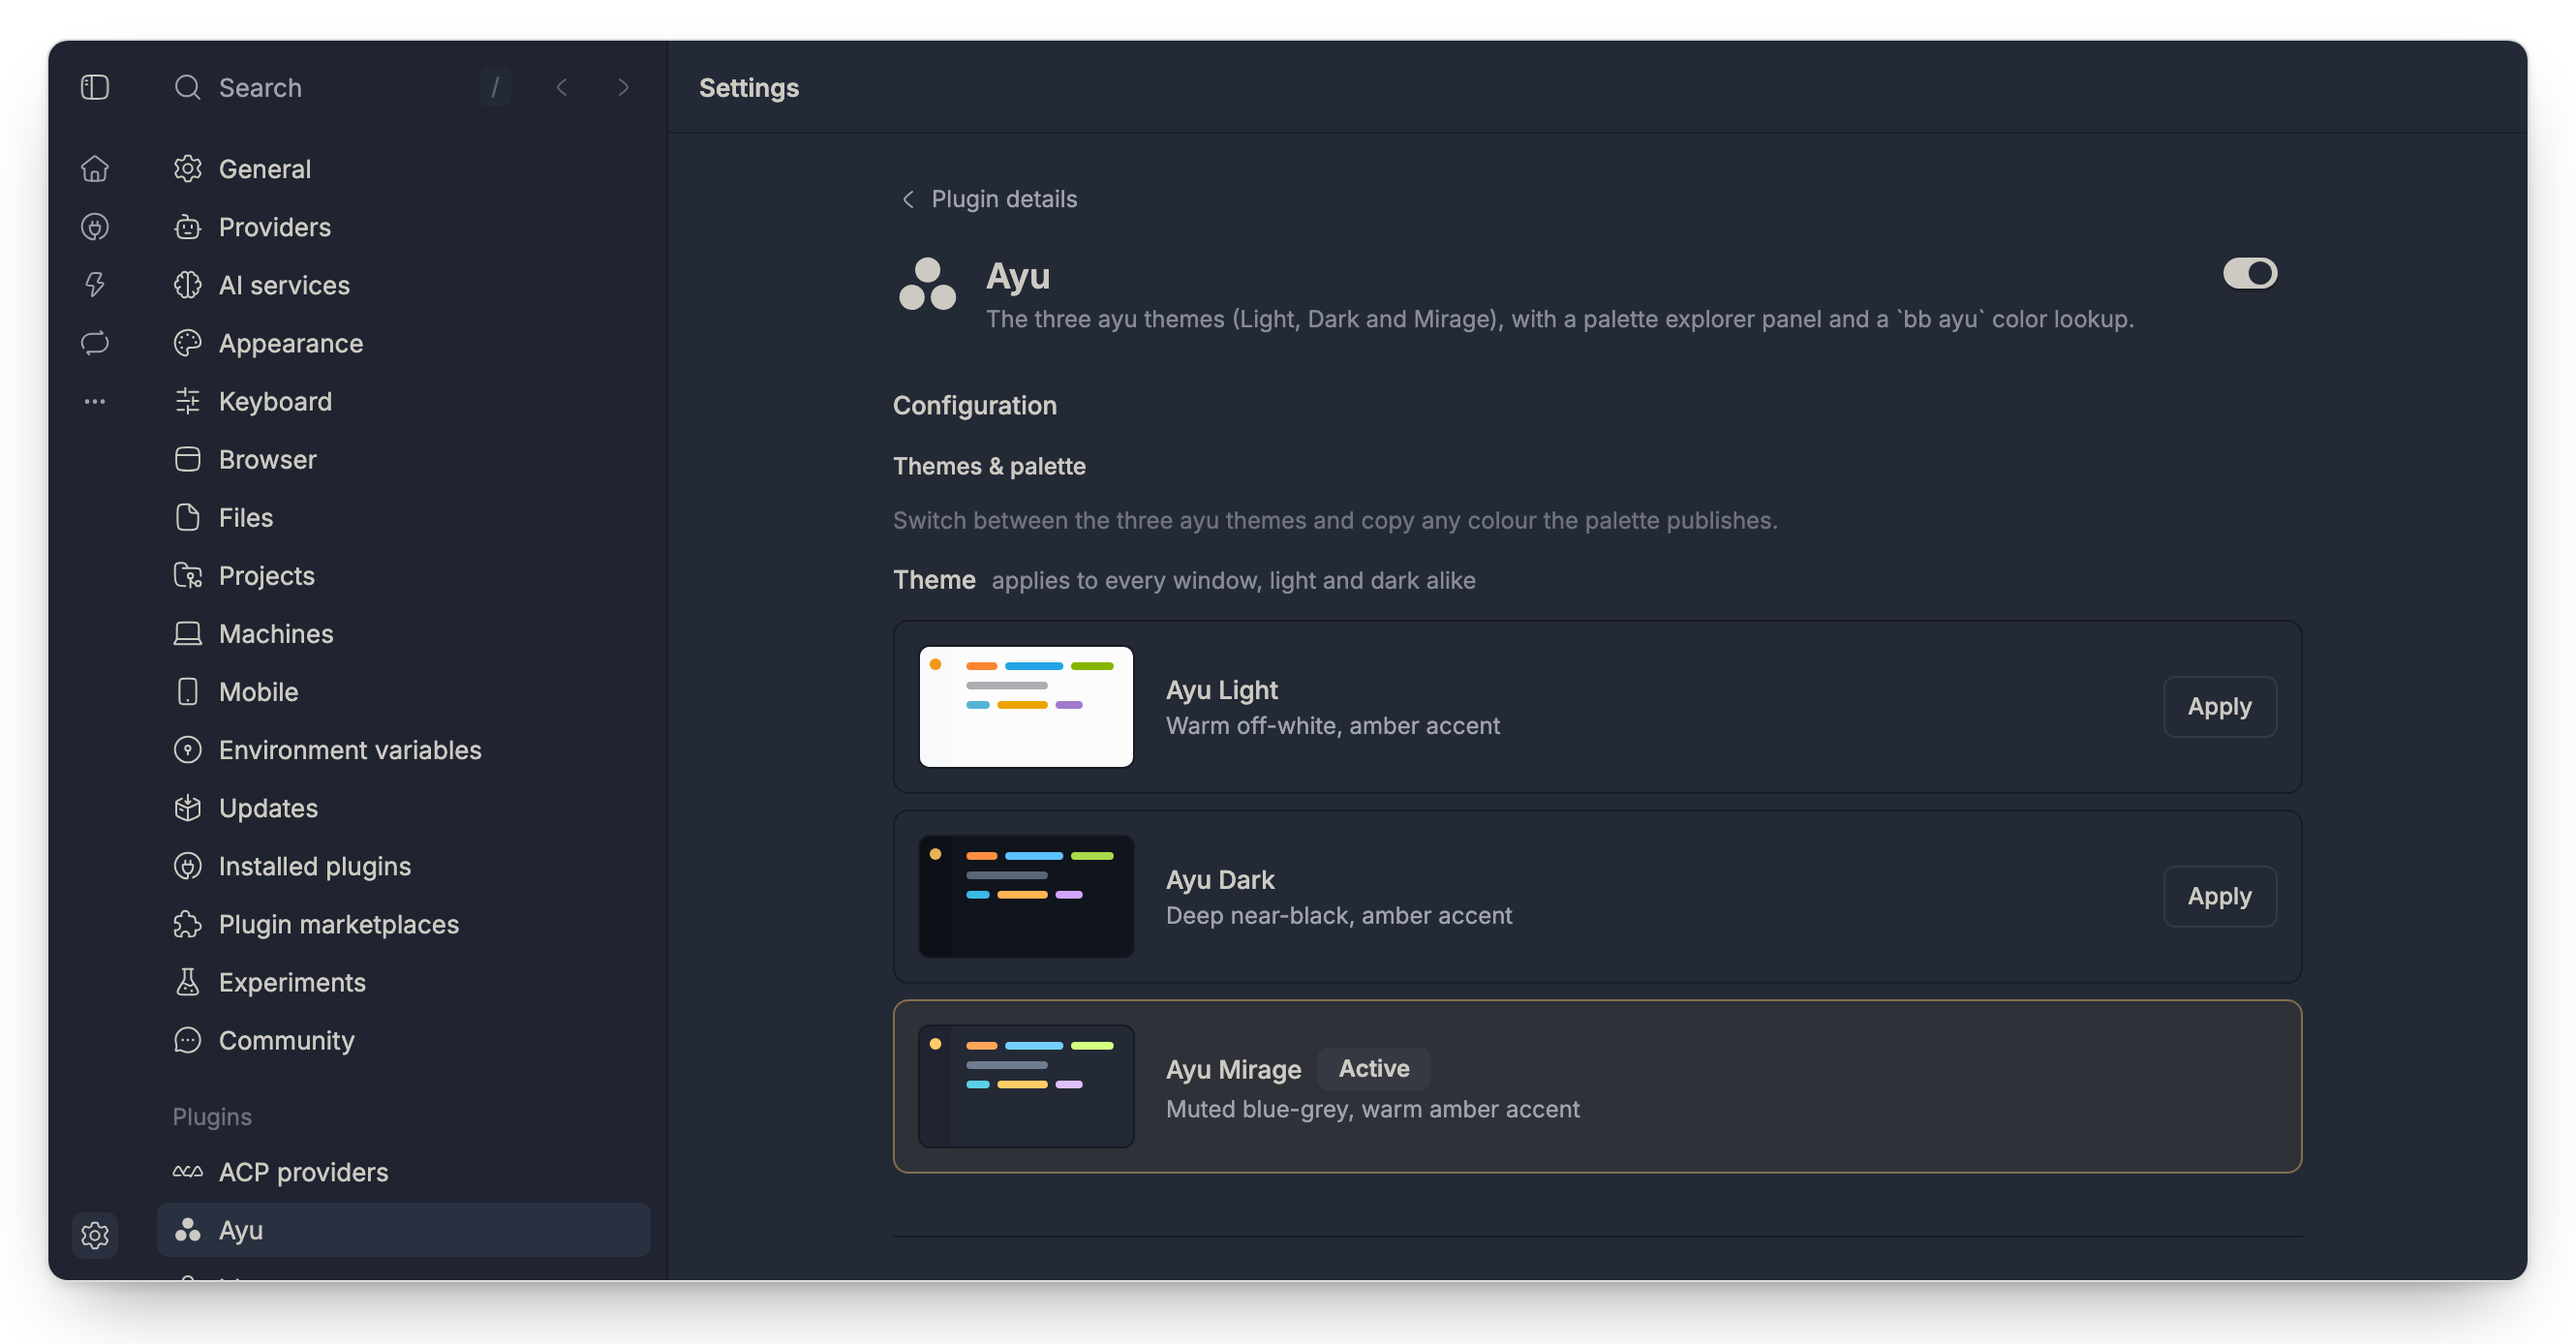
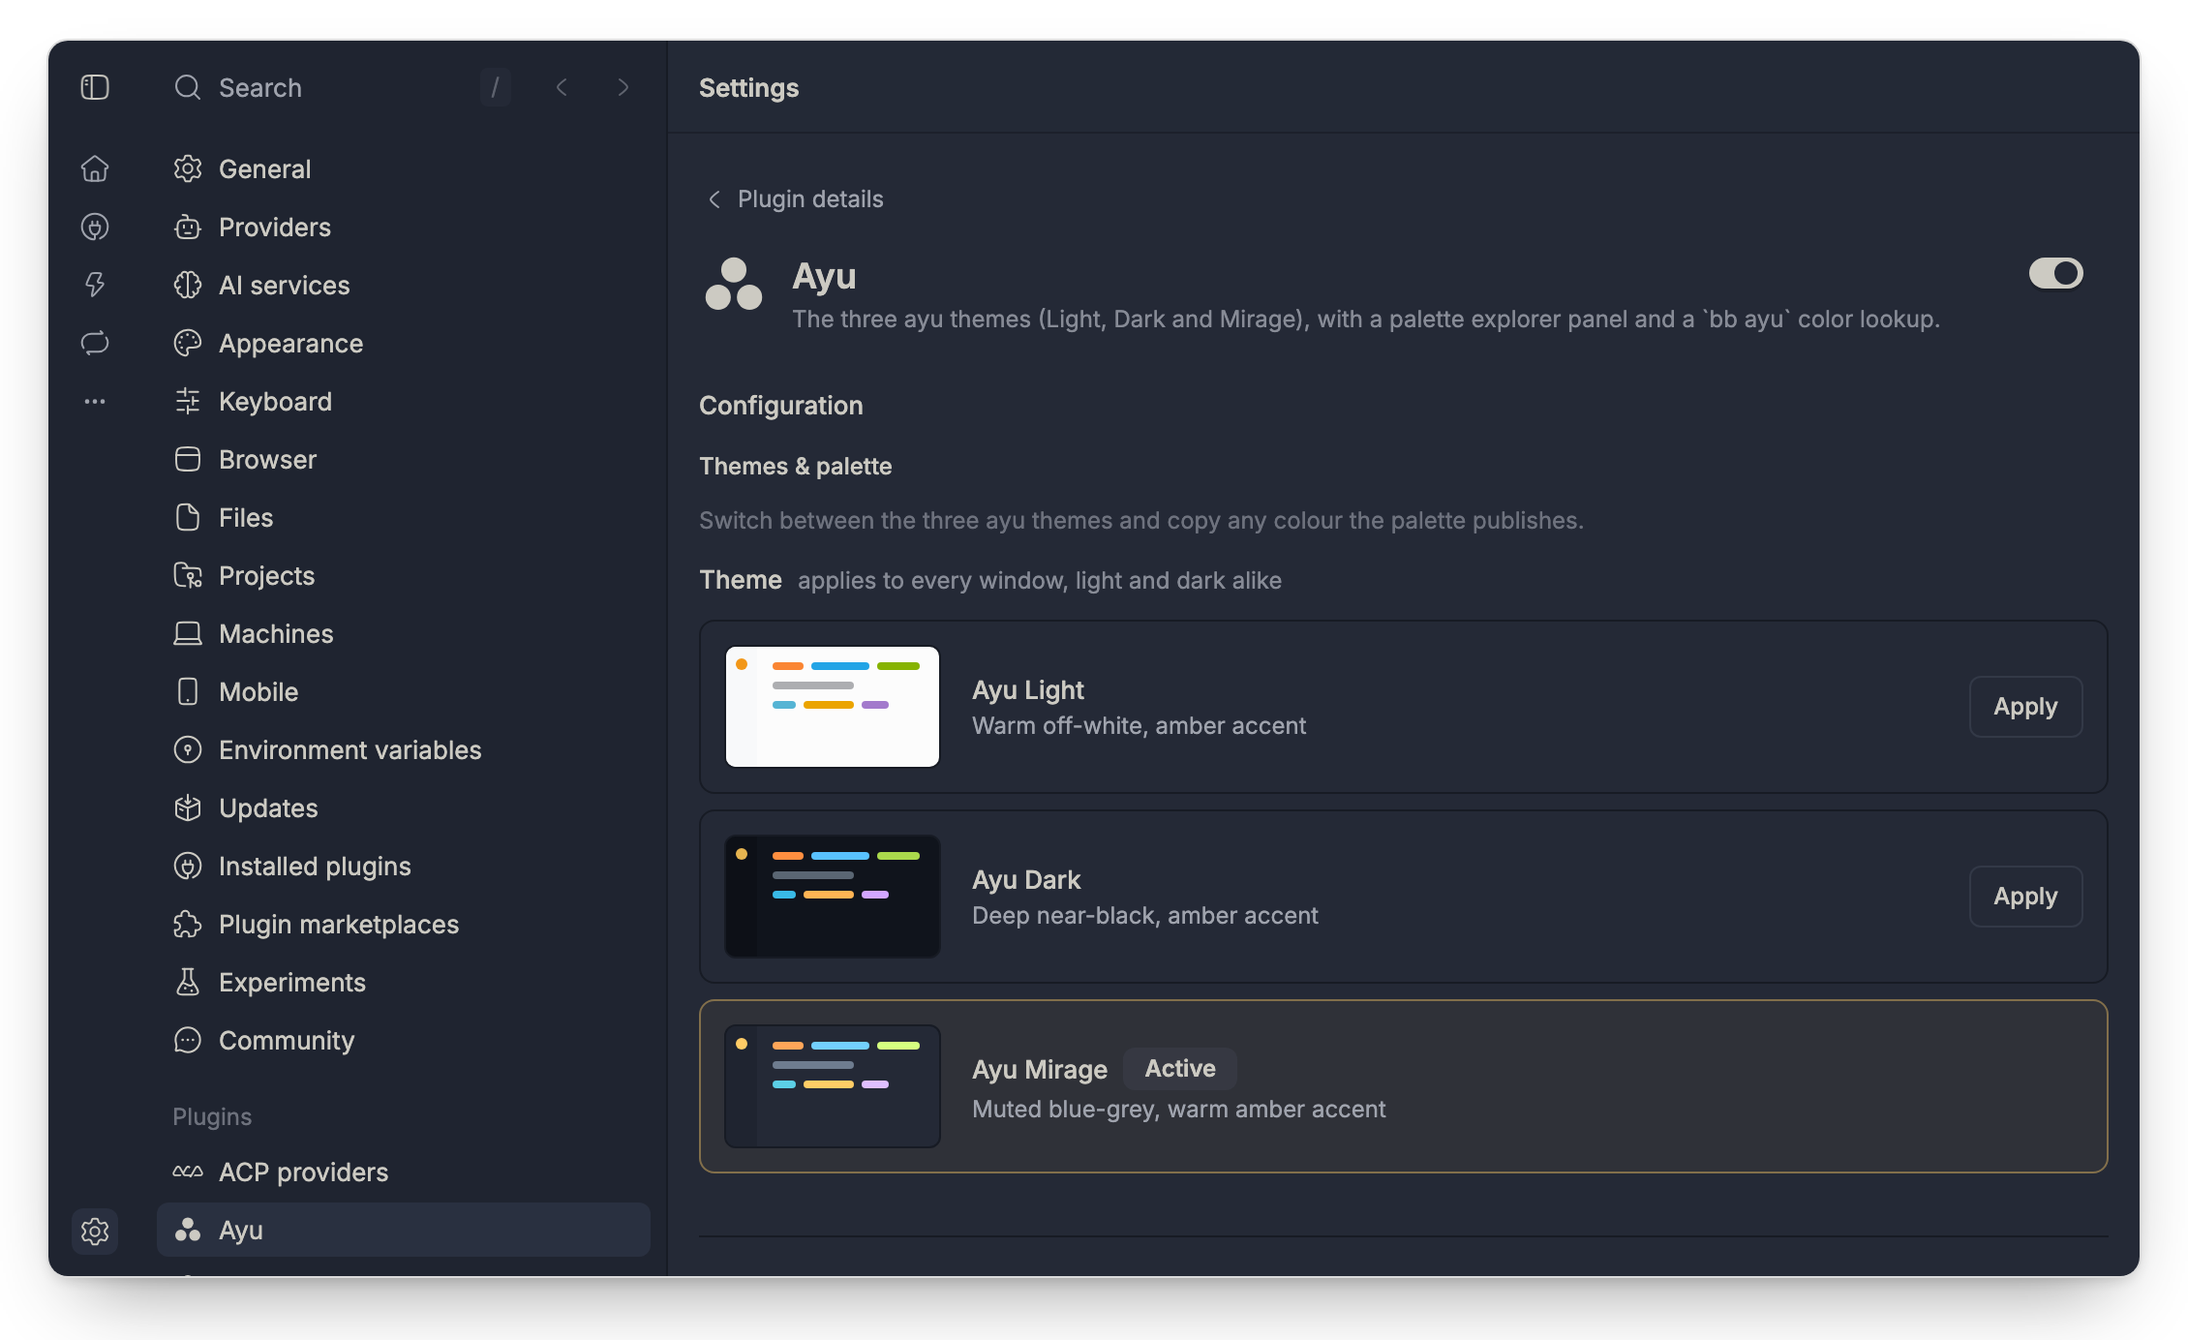
README: balance the panel row and sharpen the hero
- The screenshot script also renders a palette "peek" per variant: the
  palette card cut to the panel image's height and faded out, so the two
  panel cells sit at equal height. The full palettes stay in <details>.
- Recapture the hero at a narrower window so its text reads at README width.
- Put the tip's command in a code block instead of a wrapped inline span.

diff --git a/README.md b/README.md
@@ -27,8 +27,11 @@ bb plugin install git:https://github.com/vburojevic/bb-plugin-ayu.git
 ```
 
 > [!TIP]
-> Then pick a theme under **Settings → Appearance**, in **Settings → Ayu**, or from a terminal:
-> `bb theme set plugin:ayu:ayu-dark`
+> Then pick a theme under **Settings → Appearance** or **Settings → Ayu**, or from a terminal:
+>
+> ```sh
+> bb theme set plugin:ayu:ayu-dark
+> ```
 
 ## The three themes
 
@@ -110,8 +113,8 @@ bb paints diffs, file previews and the file editor with a code theme of its own.
 <td width="50%" valign="top">
 
 <picture>
-  <source media="(prefers-color-scheme: dark)" srcset="assets/screenshots/palette-dark.png">
-  <img src="assets/screenshots/palette-light.png" width="100%" alt="The palette explorer: ramps, syntax, terminal and interface colors">
+  <source media="(prefers-color-scheme: dark)" srcset="assets/screenshots/palette-peek-dark.png">
+  <img src="assets/screenshots/palette-peek-light.png" width="100%" alt="The top of the palette explorer: the color ramps">
 </picture>
 
 ### Explore the palette
@@ -123,7 +126,7 @@ Below the switcher sits every color ayu publishes for the selected variant: ramp
 </table>
 
 <details>
-<summary>The same panel in every variant</summary>
+<summary>The panel and the full palette in every variant</summary>
 <br>
 
 <table>
